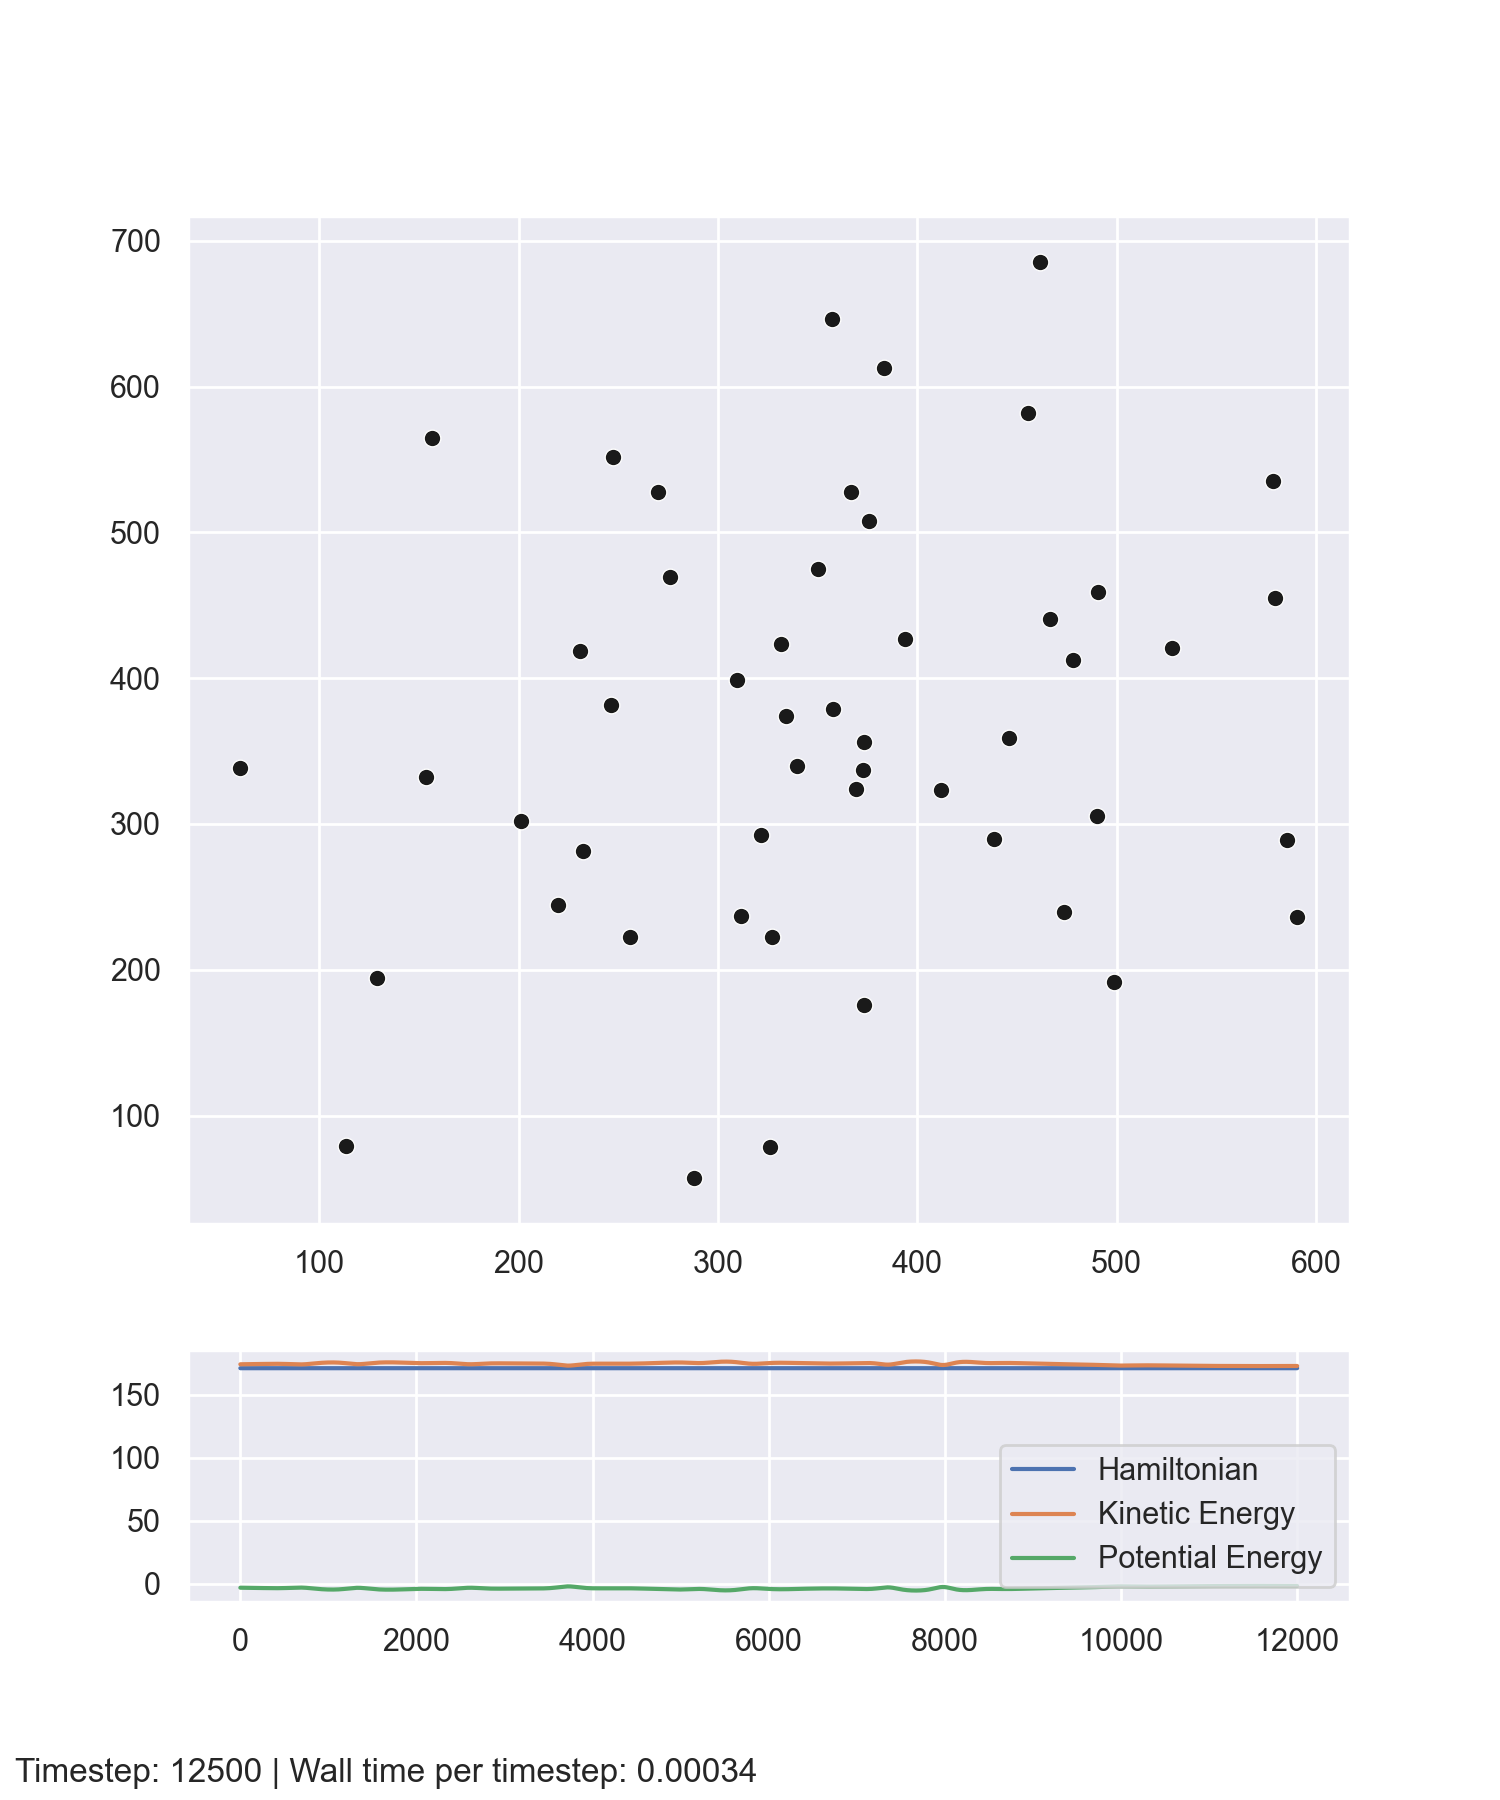
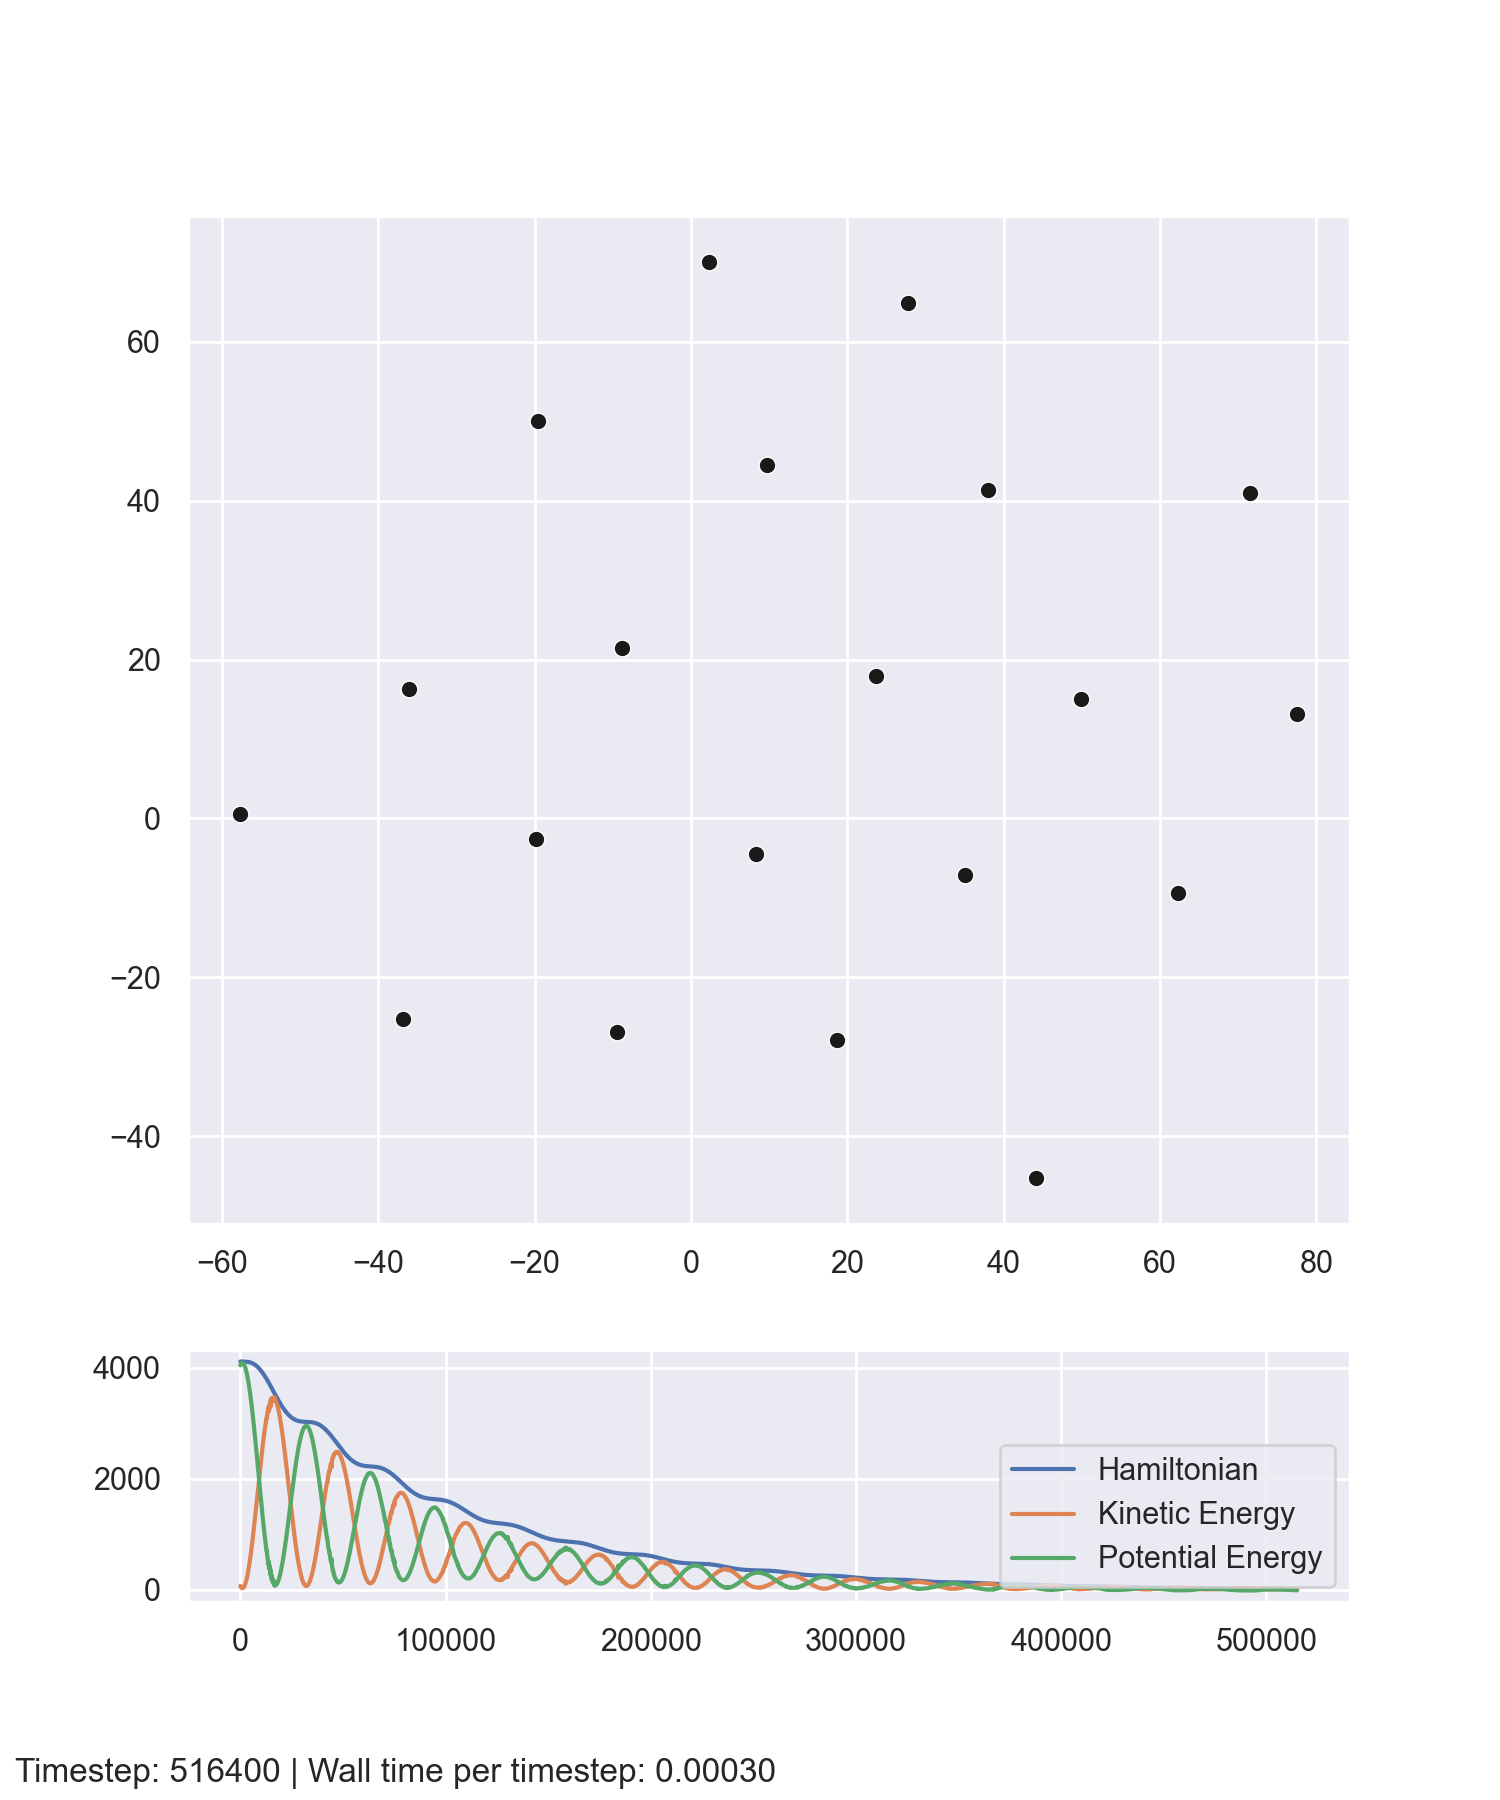
implemented proof of concept gradient descent

diff --git a/lj_test.py b/lj_test.py
@@ -29,7 +29,7 @@ def lj_desktop_data_viz(world, long_world_history, long_indicator_history, i, in
             ax=ax[0]
         )
 
-        if i % 1000 == 0:
+        if i % 5000 == 0:
             n_indicators = len(indicator_labels)
             ax[1].clear()
             for ind in range(1, n_indicators+1):
@@ -61,20 +61,20 @@ def run_sim(data_viz=lj_desktop_data_viz, fig=None, ax=None):
 
     ## Parameters
     timestep = 0.01
-    size = 600
-    n_particles = 50
+    size = 800
+    n_particles = 20
     n_steps = 1000000
-    min_dist = 4
+    min_dist = 20
 
     epsilon = 1
-    sigma = 12.5
-    c = 0
-    lamb = 0.0001
+    sigma = 25
+    c = 0.01
+    lamb = 0.01
 
     indicator_functions = [
-        lambda world: indicators.hamiltonian(world, [lambda world: forces.sum_world_lennard_jones_potential(world, epsilon, sigma)]),
+        lambda world: indicators.hamiltonian(world, [lambda world: forces.sum_world_lennard_jones_potential(world, epsilon, sigma), lambda world: forces.sum_world_gravity_potential(world, lamb)]),
         lambda world: indicators.kinetic_energy(world),
-        lambda world: indicators.potential_energy(world, [lambda world: forces.sum_world_lennard_jones_potential(world, epsilon, sigma)]),
+        lambda world: indicators.potential_energy(world, [lambda world: forces.sum_world_lennard_jones_potential(world, epsilon, sigma), lambda world: forces.sum_world_gravity_potential(world, lamb)]),
     ]
 
     n_indicators = len(indicator_functions)
@@ -85,7 +85,7 @@ def run_sim(data_viz=lj_desktop_data_viz, fig=None, ax=None):
         center=(size/2, size/2),
         n_particles=n_particles,
         min_dist=min_dist,
-        random_speed=25)
+        random_speed=50)
 
     long_world_history = np.empty( (n_steps * n_particles, 7) )
     long_indicator_history = np.empty( (n_steps, n_indicators + 1) )
@@ -108,8 +108,8 @@ def run_sim(data_viz=lj_desktop_data_viz, fig=None, ax=None):
                 integrators.integrate_rect_world,
                 [
                     lambda world: forces.pairwise_world_lennard_jones_force(world, epsilon=epsilon, sigma=sigma),
-                    lambda world: forces.viscous_damping_force(world, c)##,
-                    ##lambda world: forces.gravity_well(world, lamb)
+                    lambda world: forces.viscous_damping_force(world, c),
+                    lambda world: forces.gravity_well(world, lamb)
                 ],
                 indicator_functions
             )
@@ -140,7 +140,9 @@ def run_sim(data_viz=lj_desktop_data_viz, fig=None, ax=None):
         pass
 
     # Save data
+    print("\nSaving data...")
     np.savetxt("./data/LJ Sim Run_" + str(dt.datetime.now()) + ".csv", long_world_history, delimiter=",")
+    print("Saved")
 
 if __name__ == '__main__':
     fig, ax = setup_plots()

diff --git a/particle_sim/sim.py b/particle_sim/sim.py
@@ -1,0 +1,72 @@
+
+
+
+
+
+
+from particle_sim import indicators, experiments, forces, integrators
+import numpy as np
+import time, random
+
+
+
+
+
+
+def run_sim(params, seed):
+
+    random.seed(seed)
+
+    start_time = time.time()
+    last_loop_time = start_time
+
+    indicator_functions = [
+        lambda world: indicators.hamiltonian(world, [lambda world: forces.sum_world_lennard_jones_potential(world, params['epsilon'], params['sigma']), lambda world: forces.sum_world_gravity_potential(world, params['lambda'])]),
+        lambda world: indicators.kinetic_energy(world),
+        lambda world: indicators.potential_energy(world, [lambda world: forces.sum_world_lennard_jones_potential(world, params['epsilon'], params['sigma']), lambda world: forces.sum_world_gravity_potential(world, params['lambda'])]),
+    ]
+
+    n_indicators = len(indicator_functions)
+
+    ## ICs
+    world = experiments.set_up_experiment(
+        radius=params['size']/2,
+        center=(params['size']/2, params['size']/2),
+        n_particles=params['n_particles'],
+        min_dist=params['min_dist'],
+        random_speed=params['init_speed'])
+
+    long_world_history = np.empty( (int(params['n_steps'] * params['n_particles'] / params['record_sparsity']), 7) )
+    long_indicator_history = np.empty( (int(params['n_steps'] / params['record_sparsity']), n_indicators + 1) )
+
+    for i in range(params['n_steps']):
+
+        ## Time keeping
+        loop_duration = time.time() - last_loop_time
+        last_loop_time += loop_duration
+
+        ## Sim step
+        world, indicator_results = experiments.advance_timestep(
+            world,
+            params['timestep'],
+            integrators.integrate_rect_world,
+            [
+                lambda world: forces.pairwise_world_lennard_jones_force(world, epsilon=params['epsilon'], sigma=params['sigma']),
+                lambda world: forces.viscous_damping_force(world, params['c']),
+                lambda world: forces.gravity_well(world, params['lambda'])
+            ],
+            indicator_functions
+        )
+
+        if (i % params['record_sparsity'] == 0):
+
+            ## Trajectory recording
+            long_world_history[ int(i * params['n_particles'] / params['record_sparsity']) : (int(i / params['record_sparsity']) + 1) * params['n_particles'], : ] = world
+
+            ## Indicator recording
+            # Index
+            long_indicator_history[ int(i / params['record_sparsity']) , 0 ] = i
+            # Indicators
+            long_indicator_history[ int(i / params['record_sparsity']), 1: ] = indicator_results
+
+    return long_world_history, long_indicator_history

diff --git a/learn_lj.py b/learn_lj.py
@@ -1,0 +1,72 @@
+
+
+
+
+
+
+from particle_sim import *
+import numpy as np
+import datetime as dt
+import math, random
+
+
+
+
+
+base_params = {
+    'timestep': 0.01,
+    'size': 800,
+    'n_particles': 20,
+    'n_steps': 1000,
+    'min_dist': 20,
+    'init_speed': 50,
+    'c': 0.01,
+    'lambda': 0.01,
+    'record_sparsity':10,
+    'seed': 234235374563,
+}
+
+learned_params = {
+    'epsilon': 4,
+    'sigma': 30
+}
+
+true_params = {
+    'epsilon': 1,
+    'sigma': 25
+}
+
+true_params_aug = {**base_params, **true_params}
+true_trajs, true_inds = sim.run_sim(true_params_aug, base_params['seed'])
+
+hyperparams = {
+    'alpha': 1,
+    'd': 0.1
+}
+
+for i in range(100):
+
+    ### Test
+
+    ## Prep test parameters
+    learned_params_aug = {**base_params, **learned_params}
+
+    ## Run test sim
+    test_trajs, test_inds = sim.run_sim(learned_params_aug, base_params['seed'])
+
+    cost = indicators.mse_trajectories(true_trajs, test_trajs, base_params['n_particles'])
+    print(f'Error: {cost}\tEps: {learned_params["epsilon"]}\tSigma: {learned_params["sigma"]}')
+
+    ### Update
+
+    ## Compute gradient
+    for p in learned_params.keys():
+
+        plus_d_trajs, plus_d_inds = sim.run_sim({**learned_params_aug, **{p: learned_params[p] + hyperparams['d']}}, base_params['seed'])
+        minus_d_trajs, minus_d_inds = sim.run_sim({**learned_params_aug, **{p: learned_params[p] - hyperparams['d']}}, base_params['seed'])
+
+        plus_d_cost = indicators.mse_trajectories(true_trajs, plus_d_trajs, base_params['n_particles'])
+        minus_d_cost = indicators.mse_trajectories(true_trajs, minus_d_trajs, base_params['n_particles'])
+
+        d_param = (plus_d_cost - minus_d_cost)
+        learned_params[p] -= hyperparams['alpha'] * math.copysign(1, d_param)

diff --git a/particle_sim/forces.py b/particle_sim/forces.py
@@ -6,6 +6,7 @@ from sklearn.preprocessing import normalize
 def lennard_jones_potential(epsilon, sigma, r):
     return ne.evaluate('( (4 * epsilon * sigma**12)/r**12 - (4 * epsilon * sigma**6)/r**6 )')
 
+
 def sum_world_lennard_jones_potential(world, epsilon, sigma):
     '''
     '''
@@ -18,8 +19,10 @@ def sum_world_lennard_jones_potential(world, epsilon, sigma):
 
     return np.sum(lennard_jones_potential(epsilon, sigma, p_dists))
 
+
 def lennard_jones_force(epsilon, sigma, r):
     return ne.evaluate('24 * epsilon / r * ( (2)*(sigma/r)**12 - (sigma/r)**6 )')
+
 
 def pairwise_world_lennard_jones_force(world, epsilon, sigma):
     '''
@@ -73,6 +76,7 @@ def pairwise_world_lennard_jones_force(world, epsilon, sigma):
 #
 #     return potential_matrix
 
+
 def viscous_damping_force(world, c):
     '''
     F_damping = -cv
@@ -80,13 +84,20 @@ def viscous_damping_force(world, c):
 
     return -c * world[:, 4:6]
 
+
 def gravity_well(world, lamb):
     '''
     Exerts a constant gravitational force from the origin - assuming
     the ground level simplified form of constant acceleration gravity.
     '''
 
-    return -lamb / world[:, 3, None] * np.sign(world[:, 1:3]) * world[:, 1:3]
+    return -lamb / world[:, 3, None] * world[:, 1:3]
 
-def sum_world_potential_well(world, lamb):
-    pass
+
+def sum_world_gravity_potential(world, lamb):
+    '''
+    '''
+
+    G = np.sum( np.abs( 0.5 * lamb * np.linalg.norm(world[:, 1:3], axis=1)**2 / world[:, 3] ) )
+    ##print(G)
+    return G

diff --git a/particle_sim/indicators.py b/particle_sim/indicators.py
@@ -35,3 +35,14 @@ def hamiltonian(world, potentials=[]):
     return \
         kinetic_energy(world) + \
         potential_energy(world, potentials)
+
+def mse_trajectories(reference_trajectories, test_trajectories, n_particles):
+    '''
+    Calculates the aggregate mean squared error between two sets of particle
+    trajectories, with the sets containing an arbitrary but corresponding
+    number of particles.
+    '''
+
+    differences = test_trajectories[:, 1:3] - reference_trajectories[:, 1:3]
+    norms = np.linalg.norm(differences, axis=1)
+    return np.sum(norms**2) / n_particles

diff --git a/particle_sim/__init__.py b/particle_sim/__init__.py
@@ -1,1 +1,1 @@
-__all__ = ['experiments', 'integrators', 'kernels', 'forces', 'indicators']
+__all__ = ['experiments', 'integrators', 'kernels', 'forces', 'indicators', 'sim']
